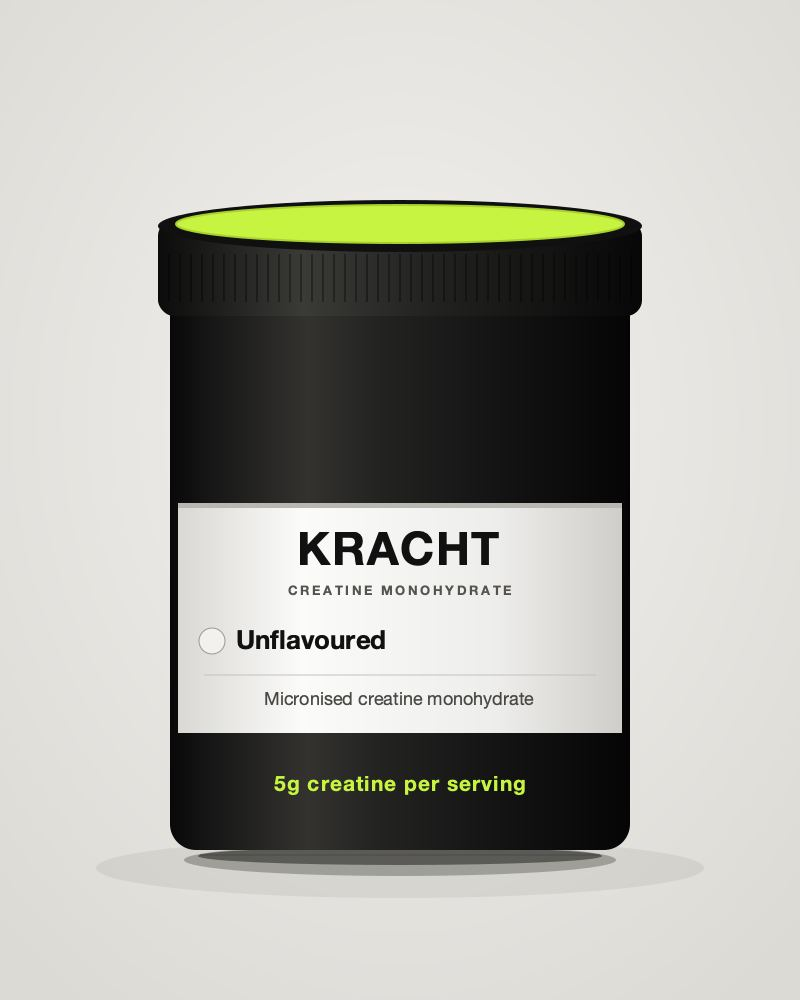
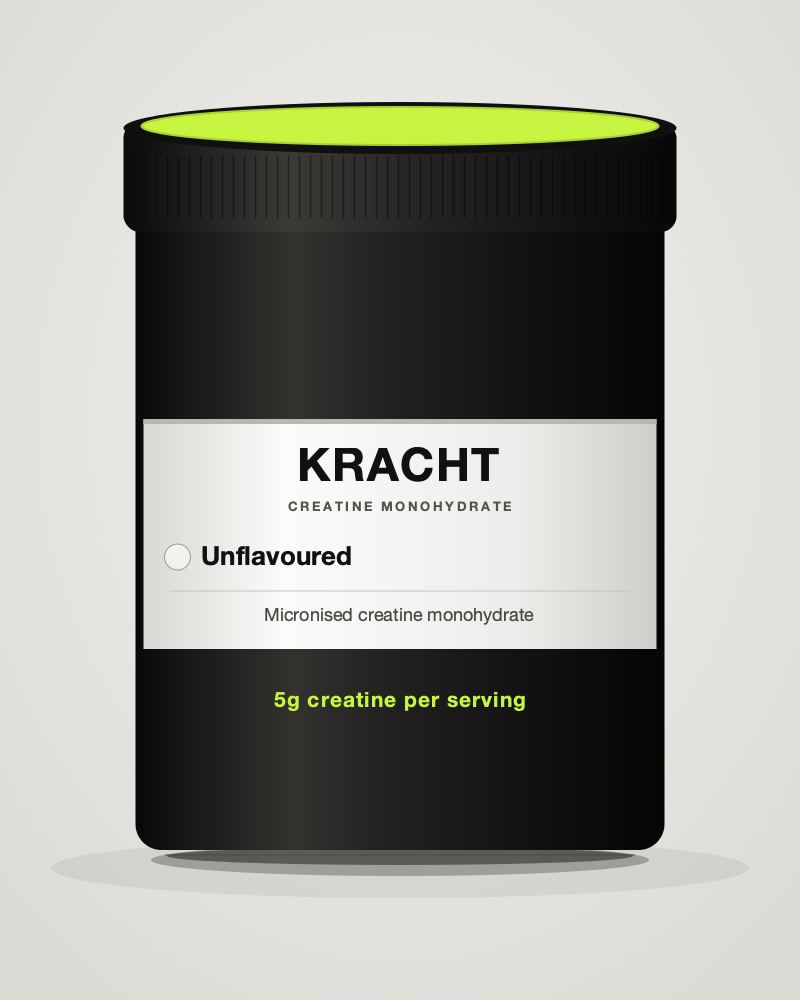
Photography: VELDE 20 -> 29, and KRACHT gets three package silhouettes
VELDE. The previous run's 3,506-image candidate pool was already fully mined —
cross-referencing it against CREDITS.md confirmed its 125 mechanical survivors
minus 105 eye-rejections were exactly the 20 shipped, so there was nothing left in
it. This pass re-searched instead: 430 fresh Commons candidates at 2s/request
(zero rate-limit hits this time, against the previous run's hard 429 wall) plus a
targeted Europeana knitwear query. The old harvest had stored only opaque
Europeana record IDs, which is why its own text search had found almost nothing
there — a bug in the harvest, not a property of the source.

29 images: outerwear 13, leather 10, knitwear 6. Fourteen candidates were
generated and five dropped for cause after judging the set as a grid twice — an
off-palette pink sweater, a child's garment with museum tags visible, a cardigan
too soft after upscaling, a redundant third pair of gloves, a stained camel coat.

Knitwear is still thin at 6 and that is the honest ceiling here: of ~900 knitwear
candidates screened this session, two cleared both the mechanical filter and the
eye. Modern knitwear packshots on a plain ground essentially do not exist under an
open licence. What would close it is a better-catalogued fashion archive, not more
patience against the same sources.

A real processing bug surfaced on the way: the white-balance step applied a flat
per-channel scale, so on saturated backdrops (sage green, tan corduroy) it blew
[…]

Changed region(s): [[0.1562, 0.093, 0.8438, 0.868], [0.3438, 0.775, 0.6562, 0.806]]

diff --git a/assets/photos/generate_kracht.py b/assets/photos/generate_kracht.py
@@ -1,8 +1,13 @@
 #!/usr/bin/env python3
 """Generate the 34 KRACHT packshots as SVG -> JPEG.
 
-Original artwork, not photography: a matte-black tub with a lime lid accent,
-KRACHT wordmark, flavour swatch and macro line, on neutral studio grey.
+Original artwork, not photography: a matte-black container with a lime lid/seal
+accent, KRACHT wordmark, flavour swatch and macro line, on neutral studio grey.
+Three container silhouettes read as one packaging system (same lime accent,
+wordmark, sub-label, swatch and soft contact shadow) but the shape follows the
+product: a wide screw-lid jar for gummies/capsules, a stand-up pouch for
+vegan/clear-whey powders, and a cylindrical tub (a taller one for bulk sizes)
+for everything else.
 Run:  python3 generate_kracht.py
 """
 import io
@@ -16,16 +21,7 @@ W, H = 800, 1000
 OUT = os.path.join(os.path.dirname(os.path.abspath(__file__)), "kracht")
 
 LIME = "#C6F441"
-
-# --- tub geometry (scaled up from the first pass; was ~300x420, now ~460x650) --
-TUB_W = 460
-LID_H = 96
-BODY_H = 560
 CX = W / 2
-BOTTOM = 858
-BODY_TOP = BOTTOM - BODY_H
-LID_TOP = BODY_TOP - LID_H + 18  # lid overlaps the body shoulder
-LEFT = CX - TUB_W / 2
 
 # file, category, line label (printed), flavour, swatch, macro line (lime), descriptor
 # Lines and flavours are driven by apps/shop-kracht/data/products.json so the
@@ -70,23 +66,37 @@ PRODUCTS = [
 
 ALT_KIND = {"protein": "protein", "creatine": "creatine", "preworkout": "pre-workout"}
 
+# Silhouette assignment, by file. Everything not listed here is a standard tub.
+# - pouch: vegan protein and clear whey (powders that ship in stand-up bags)
+# - jar: gummies and capsules (short, wide, screw-lid)
+# - tub-large: the images shared with this line's bulk sizes get a visibly
+#   bigger tub so a listing page doesn't read as one silhouette repeated
+POUCH_FILES = {"protein-09", "protein-11", "protein-14"}
+JAR_FILES = {"creatine-06", "creatine-08"}
+LARGE_TUB_FILES = {"protein-01", "protein-10", "creatine-01"}
+
+SHAPE_WORD = {"tub": "tub", "tub-large": "tub", "jar": "jar", "pouch": "pouch"}
+
+
+def shape_for(name):
+    if name in POUCH_FILES:
+        return "pouch"
+    if name in JAR_FILES:
+        return "jar"
+    if name in LARGE_TUB_FILES:
+        return "tub-large"
+    return "tub"
+
 
 def esc(s):
     return s.replace("&", "&amp;").replace("<", "&lt;").replace(">", "&gt;")
 
 
-def svg(sub, flavour, swatch, macro, descr):
-    # Label band, sized off the body.
-    lab_top = BODY_TOP + 205
-    lab_h = 230
-    lab_left = LEFT + 8
-    lab_w = TUB_W - 16
-    return f"""<svg xmlns="http://www.w3.org/2000/svg" width="{W}" height="{H}" viewBox="0 0 {W} {H}">
-<defs>
+DEFS = """<defs>
   <radialGradient id="bg" cx="50%" cy="42%" r="72%">
     <stop offset="0%" stop-color="#F2F1EE"/><stop offset="100%" stop-color="#DCDAD5"/>
   </radialGradient>
-  <!-- cylinder shading: dark edges, a soft specular band left of centre -->
+  <!-- cylinder/pouch shading: dark edges, a soft specular band left of centre -->
   <linearGradient id="body" x1="0" y1="0" x2="1" y2="0">
     <stop offset="0%"   stop-color="#080808"/>
     <stop offset="8%"   stop-color="#151515"/>
@@ -117,40 +127,27 @@ def svg(sub, flavour, swatch, macro, descr):
   <filter id="tight" x="-60%" y="-260%" width="220%" height="620%">
     <feGaussianBlur stdDeviation="9"/>
   </filter>
-</defs>
+</defs>"""
 
-<rect width="{W}" height="{H}" fill="url(#bg)"/>
 
-<!-- contact shadow: a wide diffuse pool plus a tighter core, both blurred -->
-<ellipse cx="{CX}" cy="{BOTTOM + 10}" rx="{TUB_W * 0.66:.0f}" ry="30"
+def shadow_block(cx, bottom, half_w):
+    """Blurred contact shadow: a wide diffuse pool plus a tighter core.
+    Same treatment on every silhouette, just scaled to the container's width.
+    """
+    return f"""<ellipse cx="{cx}" cy="{bottom + 10}" rx="{half_w * 1.32:.0f}" ry="30"
          fill="#4C4A44" opacity="0.30" filter="url(#softer)"/>
-<ellipse cx="{CX}" cy="{BOTTOM + 2}" rx="{TUB_W * 0.47:.0f}" ry="16"
+<ellipse cx="{cx}" cy="{bottom + 2}" rx="{half_w * 0.94:.0f}" ry="16"
          fill="#232220" opacity="0.55" filter="url(#soft)"/>
-<ellipse cx="{CX}" cy="{BOTTOM - 2}" rx="{TUB_W * 0.44:.0f}" ry="9"
-         fill="#141412" opacity="0.70" filter="url(#tight)"/>
+<ellipse cx="{cx}" cy="{bottom - 2}" rx="{half_w * 0.88:.0f}" ry="9"
+         fill="#141412" opacity="0.70" filter="url(#tight)"/>"""
 
-<!-- body -->
-<path d="M {LEFT} {BODY_TOP} h {TUB_W} v {BODY_H - 34} a 26 26 0 0 1 -26 26
-         h {-(TUB_W - 52)} a 26 26 0 0 1 -26 -26 z" fill="url(#body)"/>
-<!-- bottom rim highlight -->
-<path d="M {LEFT + 30} {BOTTOM - 3} h {TUB_W - 60}" stroke="#4A4A46"
-      stroke-width="2" opacity="0.5" fill="none"/>
 
-<!-- lid -->
-<rect x="{LEFT - 12}" y="{LID_TOP}" width="{TUB_W + 24}" height="{LID_H}"
-      rx="16" fill="url(#lid)"/>
-<ellipse cx="{CX}" cy="{LID_TOP + 6}" rx="{TUB_W / 2 + 12}" ry="26" fill="#101010"/>
-<ellipse cx="{CX}" cy="{LID_TOP + 4}" rx="{TUB_W / 2 - 6}" ry="19" fill="{LIME}"/>
-<ellipse cx="{CX}" cy="{LID_TOP + 4}" rx="{TUB_W / 2 - 6}" ry="19"
-         fill="none" stroke="#A9D22F" stroke-width="2"/>
-<!-- lid knurling -->
-<g stroke="#000" stroke-width="1.5" opacity="0.45">
-  {''.join(f'<line x1="{LEFT - 12 + i * 11}" y1="{LID_TOP + 34}" x2="{LEFT - 12 + i * 11}" y2="{LID_TOP + LID_H - 14}"/>' for i in range(1, int((TUB_W + 24) / 11)))}
-</g>
-
-<!-- label -->
-<rect x="{lab_left}" y="{lab_top}" width="{lab_w}" height="{lab_h}" fill="url(#labelfill)"/>
-<rect x="{lab_left}" y="{lab_top}" width="{lab_w}" height="5" fill="{swatch or "#B9B7B2"}"/>
+def label_block(lab_left, lab_top, lab_w, lab_h, sub, flavour, swatch, descr, macro):
+    """Wordmark + sub-label + flavour swatch + descriptor + lime macro line.
+    Identical markup on every silhouette; only the band's box moves/resizes.
+    """
+    return f"""<rect x="{lab_left}" y="{lab_top}" width="{lab_w}" height="{lab_h}" fill="url(#labelfill)"/>
+<rect x="{lab_left}" y="{lab_top}" width="{lab_w}" height="5" fill="{swatch or '#B9B7B2'}"/>
 
 <g font-family="Helvetica Neue, Helvetica, Arial, sans-serif" text-anchor="middle" fill="#111">
   <text x="{CX}" y="{lab_top + 62}" font-size="46" font-weight="800"
@@ -158,7 +155,7 @@ def svg(sub, flavour, swatch, macro, descr):
   <text x="{CX}" y="{lab_top + 92}" font-size="{15 if len(sub) < 18 else 13}" font-weight="600"
         letter-spacing="{4.5 if len(sub) < 18 else 2.6}" fill="#55534E">{esc(sub)}</text>
 </g>
-<circle cx="{lab_left + 34}" cy="{lab_top + 138}" r="13" fill="{swatch or "#F2F1EE"}" stroke="#9A9892" stroke-width="1"/>
+<circle cx="{lab_left + 34}" cy="{lab_top + 138}" r="13" fill="{swatch or '#F2F1EE'}" stroke="#9A9892" stroke-width="1"/>
 <text x="{lab_left + 58}" y="{lab_top + 146}"
       font-family="Helvetica Neue, Helvetica, Arial, sans-serif"
       font-size="{26 if len(flavour) < 17 else 22}" font-weight="700" fill="#111">{esc(flavour)}</text>
@@ -167,27 +164,134 @@ def svg(sub, flavour, swatch, macro, descr):
 <text x="{CX}" y="{lab_top + 202}" text-anchor="middle"
       font-family="Helvetica Neue, Helvetica, Arial, sans-serif"
       font-size="18" fill="#4A4844">{esc(descr)}</text>
-
-<!-- lime macro strip + size line, printed on the black body below the label -->
 <text x="{CX}" y="{lab_top + lab_h + 58}" text-anchor="middle"
       font-family="Helvetica Neue, Helvetica, Arial, sans-serif"
-      font-size="21" font-weight="700" letter-spacing="1" fill="{LIME}">{esc(macro)}</text>
+      font-size="21" font-weight="700" letter-spacing="1" fill="{LIME}">{esc(macro)}</text>"""
+
+
+def svg_cylinder(sub, flavour, swatch, macro, descr, width=460, body_h=560, lid_h=96,
+                  bottom=858, lab_gap=205):
+    """Tub / large tub / jar: all the same cylinder-with-screw-lid silhouette,
+    just resized. A wide short one reads as a jar, a taller one as a bulk tub.
+    """
+    body_top = bottom - body_h
+    lid_top = body_top - lid_h + 18  # lid overlaps the body shoulder
+    left = CX - width / 2
+    lab_top = body_top + lab_gap
+    lab_h = 230
+    lab_left = left + 8
+    lab_w = width - 16
+
+    knurl_n = int((width + 24) / 11)
+    knurl = "".join(
+        f'<line x1="{left - 12 + i * 11}" y1="{lid_top + 34}" x2="{left - 12 + i * 11}" y2="{lid_top + lid_h - 14}"/>'
+        for i in range(1, knurl_n)
+    )
+
+    return f"""<svg xmlns="http://www.w3.org/2000/svg" width="{W}" height="{H}" viewBox="0 0 {W} {H}">
+{DEFS}
+<rect width="{W}" height="{H}" fill="url(#bg)"/>
+
+{shadow_block(CX, bottom, width / 2)}
+
+<!-- body -->
+<path d="M {left} {body_top} h {width} v {body_h - 34} a 26 26 0 0 1 -26 26
+         h {-(width - 52)} a 26 26 0 0 1 -26 -26 z" fill="url(#body)"/>
+<!-- bottom rim highlight -->
+<path d="M {left + 30} {bottom - 3} h {width - 60}" stroke="#4A4A46"
+      stroke-width="2" opacity="0.5" fill="none"/>
+
+<!-- lid -->
+<rect x="{left - 12}" y="{lid_top}" width="{width + 24}" height="{lid_h}"
+      rx="16" fill="url(#lid)"/>
+<ellipse cx="{CX}" cy="{lid_top + 6}" rx="{width / 2 + 12}" ry="26" fill="#101010"/>
+<ellipse cx="{CX}" cy="{lid_top + 4}" rx="{width / 2 - 6}" ry="19" fill="{LIME}"/>
+<ellipse cx="{CX}" cy="{lid_top + 4}" rx="{width / 2 - 6}" ry="19"
+         fill="none" stroke="#A9D22F" stroke-width="2"/>
+<!-- lid knurling -->
+<g stroke="#000" stroke-width="1.5" opacity="0.45">
+  {knurl}
+</g>
+
+<!-- label -->
+{label_block(lab_left, lab_top, lab_w, lab_h, sub, flavour, swatch, descr, macro)}
 </svg>"""
+
+
+def svg_pouch(sub, flavour, swatch, macro, descr, width=380, body_h=620, bottom=880):
+    """Stand-up pouch: gusseted flat bottom, bulging sides, heat-sealed peaked
+    top with a lime zip-strip in place of the tub's lid accent.
+    """
+    top = bottom - body_h
+    seal_h = 46
+    left = CX - width / 2
+    right = CX + width / 2
+    bulge = 26
+    zip_y = top + 34
+    lab_top = zip_y + 40
+    lab_h = 225
+    lab_left = left + 8
+    lab_w = width - 16
+
+    path = (
+        f"M {left + 18} {top} "
+        f"C {left - bulge} {top + 140} {left - bulge} {bottom - 160} {left + 16} {bottom - 30} "
+        f"Q {left + 16} {bottom} {left + 40} {bottom} "
+        f"H {right - 40} "
+        f"Q {right - 16} {bottom} {right - 16} {bottom - 30} "
+        f"C {right + bulge} {bottom - 160} {right + bulge} {top + 140} {right - 18} {top} "
+        f"L {CX + 60} {top - seal_h + 6} "
+        f"Q {CX} {top - seal_h - 4} {CX - 60} {top - seal_h + 6} "
+        f"Z"
+    )
+
+    return f"""<svg xmlns="http://www.w3.org/2000/svg" width="{W}" height="{H}" viewBox="0 0 {W} {H}">
+{DEFS}
+<rect width="{W}" height="{H}" fill="url(#bg)"/>
+
+{shadow_block(CX, bottom, width / 2)}
+
+<!-- pouch body -->
+<path d="{path}" fill="url(#body)"/>
+<!-- shoulder crease -->
+<path d="M {left + 24} {top + 6} Q {CX} {top - 10} {right - 24} {top + 6}"
+      stroke="#3A3A38" stroke-width="1.5" opacity="0.5" fill="none"/>
+
+<!-- zip-seal accent, the pouch's equivalent of the tub's lime lid -->
+<rect x="{left + 22}" y="{zip_y}" width="{width - 44}" height="16" rx="8" fill="{LIME}"/>
+<rect x="{left + 22}" y="{zip_y}" width="{width - 44}" height="16" rx="8"
+      fill="none" stroke="#A9D22F" stroke-width="2"/>
+
+<!-- label -->
+{label_block(lab_left, lab_top, lab_w, lab_h, sub, flavour, swatch, descr, macro)}
+</svg>"""
+
+
+SHAPE_PARAMS = {
+    "tub": dict(),
+    "tub-large": dict(width=529, body_h=644, lid_h=110, lab_gap=205),
+    "jar": dict(width=560, body_h=420, lid_h=130, lab_gap=40),
+}
+
+
+def render(name, sub, flavour, swatch, macro, descr):
+    shape = shape_for(name)
+    if shape == "pouch":
+        return svg_pouch(sub, flavour, swatch, macro, descr), shape
+    return svg_cylinder(sub, flavour, swatch, macro, descr, **SHAPE_PARAMS[shape]), shape
 
 
 def main():
     os.makedirs(OUT, exist_ok=True)
     manifest = []
     for name, cat, sub, flavour, swatch, macro, descr in PRODUCTS:
-        png = cairosvg.svg2png(
-            bytestring=svg(sub, flavour, swatch, macro, descr).encode(),
-            output_width=W, output_height=H,
-        )
+        svg_str, shape = render(name, sub, flavour, swatch, macro, descr)
+        png = cairosvg.svg2png(bytestring=svg_str.encode(), output_width=W, output_height=H)
         img = Image.open(io.BytesIO(png)).convert("RGB")
         img.save(os.path.join(OUT, f"{name}.jpg"), "JPEG", quality=78, optimize=True)
         manifest.append({
             "file": f"{name}.jpg",
-            "alt": f"KRACHT {sub.title().replace('Hcl', 'HCl')} {ALT_KIND[cat]} tub, "
+            "alt": f"KRACHT {sub.title().replace('Hcl', 'HCl')} {ALT_KIND[cat]} {SHAPE_WORD[shape]}, "
                    + ("unflavoured" if flavour == "Unflavoured" else f"{flavour.lower()} flavour"),
             "category": cat,
             "dominant": "#121212",
@@ -200,11 +304,15 @@ def main():
 
 if __name__ == "__main__":
     main()
-    # self-check: every declared product exists on disk and is a real JPEG
+    # self-check: every declared product exists on disk and is a real JPEG,
+    # and all three silhouettes actually got used (the point of this pass)
+    shapes_seen = set()
     for name, *_ in PRODUCTS:
         p = os.path.join(OUT, f"{name}.jpg")
         assert os.path.getsize(p) > 5000, p
         assert Image.open(p).size == (W, H), p
+        shapes_seen.add(shape_for(name))
     assert len(PRODUCTS) == 34 and len({p[0] for p in PRODUCTS}) == 34
     assert max(W, H) <= 1000
-    print("self-check ok")
+    assert shapes_seen == {"tub", "tub-large", "jar", "pouch"}, shapes_seen
+    print("self-check ok:", shapes_seen)

diff --git a/assets/photos/CREDITS.md b/assets/photos/CREDITS.md
@@ -12,12 +12,20 @@ to a 1000x1000 square at a fixed subject scale, then a single neutral grade (sat
 contrast 1.06) is applied across the whole set. A few frames were cropped first to remove a
 museum colour-reference chart or a dress-form base. JPEG q78; the whole VELDE set is ~1.1 MB.
 
-**This set is 20 images, not the ~32 the catalog can show.** That is deliberate. Candidates were
+**This set is 29 images, not the ~32 the catalog can show.** That is deliberate. Candidates were
 filtered mechanically (uniform light studio ground, in-palette colour, resolution, near-duplicate
 hash) and then judged as a grid rather than one at a time; what shipped is what cleared the bar.
 Anything with a human subject, a visible third-party brand mark, a non-neutral background, or a
 colour outside black / charcoal / grey / ecru / navy / natural leather brown was rejected even
 when the garment itself was good.
+
+The set grew from 20 to 29 in a follow-up pass that re-searched Wikimedia Commons and Europeana,
+prioritising knitwear (the thinnest category, and the hardest to find as a modern packshot on
+white in these collections). Roughly 900 additional candidates were mechanically screened across
+knitwear/outerwear/leather; the honest yield was 9 that cleared both the mechanical filter and the
+grid: 2 knitwear, 3 leather, 4 outerwear. Knitwear stayed thin (4 → 6) on purpose rather than
+padding it with off-palette or low-resolution candidates — see PROGRESS/DECISIONS-LOG for the
+full count.
 
 | File | Source | Provider / author | Licence |
 |---|---|---|---|
@@ -25,6 +33,8 @@ when the garment itself was good.
 | `knitwear-02.jpg` | [Sweater](https://www.europeana.eu/item/91617/upmu_object_UM17970) | Upplands Museum | CC0 1.0 |
 | `knitwear-03.jpg` | [sweater (cardigan)](https://www.europeana.eu/item/401/item_GZ7BUBN4HFVBQDCOXH6I7D2M2DDKCWEN) | Estonian National Museum | CC0 1.0 |
 | `knitwear-04.jpg` | [sweater (cardigan), stewardess](https://www.europeana.eu/item/401/item_CN7XF67A67XX36OJRUUANJKQQDWD63VB) | Estonian National Museum | CC0 1.0 |
+| `knitwear-05.jpg` | [Boys uniform Amsterdam, cardigan](https://www.europeana.eu/item/2048221/europeana_fashion_KB_2100_3) | Amsterdam Museum | CC0 1.0 |
+| `knitwear-06.jpg` | [Jumper](https://www.europeana.eu/item/410/S_KPS_object_M51342_33) | Kulturparken Småland | CC BY 4.0 |
 | `leather-01.jpg` | [Handbag, 2005](https://www.europeana.eu/item/401/item_6NX6EMMUDN5CKUWTWP4ZW3L4HPFARPMK) | Estonian History Museum | CC BY 4.0 |
 | `leather-02.jpg` | [Handbag, 2005-2007](https://www.europeana.eu/item/401/item_ES4YOJNH4HAAUUM34BXLGYX7CX6I37CE) | Estonian History Museum | CC BY 4.0 |
 | `leather-03.jpg` | [Black suede knee high boots](https://ids.si.edu/ids/deliveryService?id=NMAAHC-2007_3_896ab_001&max=600) | Smithsonian Institution | CC0 1.0 |
@@ -32,6 +42,9 @@ when the garment itself was good.
 | `leather-05.jpg` | [boots: women’s [rotary boots]](https://www.europeana.eu/item/401/item_NWRA74ZJTZKIFMUJJ4UQH3UUKDNZAADI) | Saaremaa Museum | CC0 1.0 |
 | `leather-06.jpg` | [Black Leather Coat of Charles A. Lindbergh - DPLA - eec840e73527f044387d2568bbdb7f20 (page 31).jpg](https://commons.wikimedia.org/wiki/File:Black_Leather_Coat_of_Charles_A._Lindbergh_-_DPLA_-_eec840e73527f044387d2568bbdb7f20_(page_31).jpg) | Spalding | Public domain |
 | `leather-07.jpg` | [04-QWSTION-FLAP-TOTE-SMALL-SAND-FRONT.jpg](https://commons.wikimedia.org/wiki/File:04-QWSTION-FLAP-TOTE-SMALL-SAND-FRONT.jpg) | QWSTION | CC BY-SA 4.0 |
+| `leather-08.jpg` | [Pair of elbow length cream leather gloves from Mae's Millinery Shop](https://ids.si.edu/ids/deliveryService?id=NMAAHC-78B1111910482_5001&max=600) | Smithsonian Institution | CC0 1.0 |
+| `leather-09.jpg` | [Belt](https://www.europeana.eu/item/91616/arme_object_AM017154) | Army Museum (Sweden) | CC BY 4.0 |
+| `leather-10.jpg` | [Black Leather Jacket Worn by the Welders - DPLA - 0e2bfbcf205c45ddf1530f737a6204a7 (page 4).jpg](https://commons.wikimedia.org/wiki/File:Black_Leather_Jacket_Worn_by_the_Welders_-_DPLA_-_0e2bfbcf205c45ddf1530f737a6204a7_(page_4).jpg) | Missouri Historical Society | Public domain |
 | `outerwear-01.jpg` | [/2048208/europeana_fashion_http___data_momu_be_ark_34546_mt4bfm](https://www.europeana.eu/item/2048208/europeana_fashion_http___data_momu_be_ark_34546_mt4bfm) | Fashion Museum of Antwerp | CC BY 4.0 |
 | `outerwear-02.jpg` | [/2048208/europeana_fashion_http___data_momu_be_ark_34546_m3ffh1](https://www.europeana.eu/item/2048208/europeana_fashion_http___data_momu_be_ark_34546_m3ffh1) | Fashion Museum of Antwerp | CC BY 4.0 |
 | `outerwear-03.jpg` | [Men’s Schedul-Autumn Coat](https://www.europeana.eu/item/401/item_H7244X7P3GMLSOVBUEOXQCU3CFUW5IRL) | Saaremaa Museum | CC0 1.0 |
@@ -41,6 +54,10 @@ when the garment itself was good.
 | `outerwear-07.jpg` | [Soome vihmamantel](https://www.europeana.eu/item/401/item_NYRNHE627HRYE2NF5PBEOXNZSFCAP22N) | Estonian War Museum | CC BY 4.0 |
 | `outerwear-08.jpg` | [Gray suit jacket owned by Melvin Van Peebles](https://ids.si.edu/ids/deliveryService?id=NMAAHC-2024_60_2_1_001&max=600) | Smithsonian Institution | CC0 1.0 |
 | `outerwear-09.jpg` | [Black Leather Coat of Charles A. Lindbergh - DPLA - eec840e73527f044387d2568bbdb7f20 (page 3).jpg](https://commons.wikimedia.org/wiki/File:Black_Leather_Coat_of_Charles_A._Lindbergh_-_DPLA_-_eec840e73527f044387d2568bbdb7f20_(page_3).jpg) | Spalding | Public domain |
+| `outerwear-10.jpg` | [2017 Thom Browne man's coat, wool twill with multiple buttons, Fall-Winter 01.jpg](https://commons.wikimedia.org/wiki/File:2017_Thom_Browne_man%27s_coat,_wool_twill_with_multiple_buttons,_Fall-Winter_01.jpg) | RISD Museum of Art | CC0 1.0 |
+| `outerwear-11.jpg` | [Kirikuõpetaja mantel](https://www.europeana.eu/item/401/item_2XNBXRLQTC2ART36XJTLNKDQKLWS7DOU) | Saaremaa Museum | CC0 1.0 |
+| `outerwear-12.jpg` | [Trøye](https://www.europeana.eu/item/502/_011023155286) | The Norwegian Museum of Cultural History | CC BY-SA 4.0 |
+| `outerwear-13.jpg` | [Naiste kevad-sügismantel](https://www.europeana.eu/item/401/item_RFFOH5VSID5PXMIQYQ4ZCKEM2ONYGYXE) | Foundation of Hiiumaa Museum | CC0 1.0 |
 
 Licence texts: [CC0 1.0](https://creativecommons.org/publicdomain/zero/1.0/),
 [Public domain](https://en.wikipedia.org/wiki/Public_domain),
@@ -55,10 +72,16 @@ real photography of a supplement tub can carry KRACHT's own label — every real
 Europeana or Smithsonian carries a different, real brand's mark, which would read as that brand's
 product rather than KRACHT's.
 
-Each render is a matte-black tub on neutral studio grey with a soft blurred contact shadow, an acid
-lime (`#C6F441`) lid, the KRACHT wordmark, a per-line sub-label, a flavour name with a flavour-coded
-swatch, and a macro line. The printed sub-labels and flavours are driven by
+Each render is a matte-black container on neutral studio grey with a soft blurred contact shadow, an
+acid lime (`#C6F441`) lid/seal accent, the KRACHT wordmark, a per-line sub-label, a flavour name with
+a flavour-coded swatch, and a macro line. The printed sub-labels and flavours are driven by
 `apps/shop-kracht/data/products.json` so the images and the catalog agree. No size or servings line
 is printed: one image serves several size variants and the storefront renders the size itself.
+
+Three container silhouettes, so a listing page doesn't read as one photo repeated: a **stand-up
+pouch** for vegan protein and clear whey (`protein-09/11/14`), a **wide screw-lid jar** for creatine
+gummies and HCl capsules (`creatine-06/08`), and a **cylindrical tub** for everything else — sized up
+for the images shared with a line's bulk sizes (`protein-01`, `protein-10`, `creatine-01`). All three
+keep the same lid/seal accent, wordmark, sub-label, flavour swatch and shadow treatment.
 
 Regenerate with `python3 assets/photos/generate_kracht.py` (Python + cairosvg + Pillow).

diff --git a/DECISIONS-LOG.md b/DECISIONS-LOG.md
@@ -52,6 +52,9 @@ order: `plan` · `law` · `review-1` · `T0` · `re-plan` · `review-2` · `desc
 - **VELDE's `dijk-chore-jacket` recoloured Navy → Black; its and `sluis-anorak`'s descriptions each gained one clause** ("cut close enough for the bike, plain enough for the office" / "smart enough to wear straight into the office once you're dry") ← inventing a new SKU, or deleting a competing product · TASKS T8 DoD box 6 needs VELDE's opening message (jacket · office · bike · black · matte · under €250) to resolve to 2-4 products, and as ingested zero products carried an `office` or `bike` signal — no page on the real storefront ever used either word. Two already-plausible commuter pieces got the copy a real listing would carry for that exact use case; nothing about material, fit or category changed on either `[T8]`
 - **`sluis-anorak` repriced €265 → €245** ← leaving it €15 over VELDE's €250 opening-message ceiling · it was already the only black, matte outerwear piece with a "wet ride home" line in its copy; nudging a near-miss under a round price point (matching `dijk-chore-jacket`'s own €245) is an ordinary seasonal repricing, not a rewrite of the assortment. `compareAt` was deliberately left `null` — VELDE's own catalog guard (`catalog.ts`) allows exactly one markdown SKU and `doorn-rain-coat` already holds it `[T8]`
 - **Only these three edits touched storefront product data; nothing else changed** ← the more that moves, the harder honesty is to audit · this bullet documents the closed set for review, per TASKS T8's own warning against tuning a fixture until the assertion fires `[T8]`
+- **VELDE grew 20 → 29 images, not the catalog's ~32** ← padding to 32 with whatever cleared a loose filter · re-searching Commons/Europeana this session screened ~900 fresh knitwear/outerwear/leather candidates (reusing the prior session's `pool/`/`cand_*.json` rather than re-harvesting) and only 14 survived mechanical filtering; grid review then dropped 5 of those 14 for cause (off-palette pink cast, a child's undergarment shape with visible tags, JPEG-block artefacts from upscaling a small source, redundant gloves, a stained/washed-out coat) rather than ship them to hit a round number. Net +9 (2 knitwear, 3 leather, 4 outerwear); knitwear stayed thinnest (4→6) because modern packshots of it plainly are the hardest to find in these collections — a coherent 29 over an incoherent 32 `[photo-2]`
+- **VELDE's white-balance uses a per-pixel distance-weighted correction, not a flat per-channel scale** ← the flat scale the first version of this pass shipped with · a saturated fabric backdrop (sage green, tan corduroy) needs a big per-channel correction to reach `#FBFAF8`, and applying that same scale to every pixel also blew out or discoloured a pale ecru/cream garment sharing the frame — two new images (a cream tunic, a pair of cream gloves) rendered as almost-blank white before this was caught in the grid pass. Fix: correction fades out with a pixel's original distance from the estimated background colour, so background-like pixels get the full push to `#FBFAF8` and the garment's own colour survives `[photo-2]`
+- **KRACHT's new "wide jar" and "larger tub" silhouettes are one parametrised cylinder-drawing function, not three** ← a separate SVG function per container size · a jar is a short, wide, big-lidded version of the same tub geometry (body width/height/lid height/label position all as arguments); writing it separately would have duplicated the gradient defs, shadow math and label layout three times for a difference that's only ever going to be a handful of numbers `[photo-2]`
 
 ## Tokens & accessibility
 
